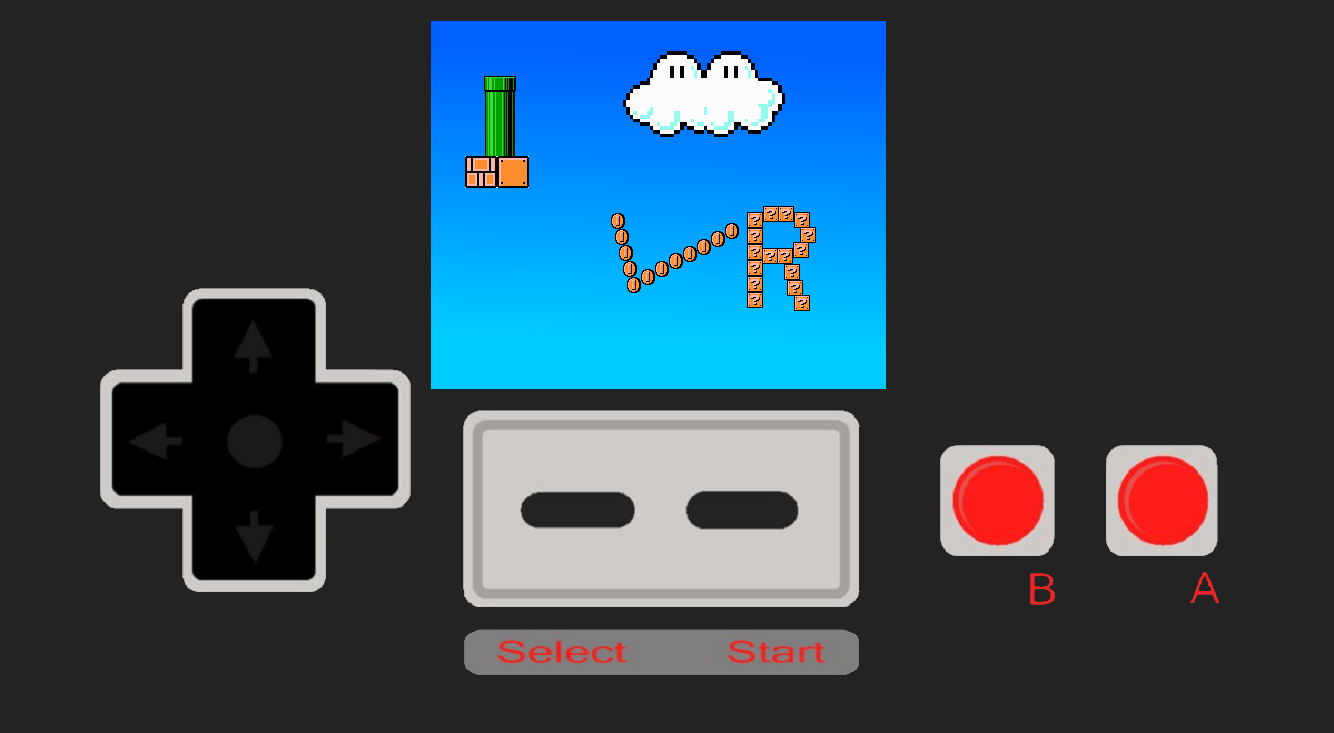
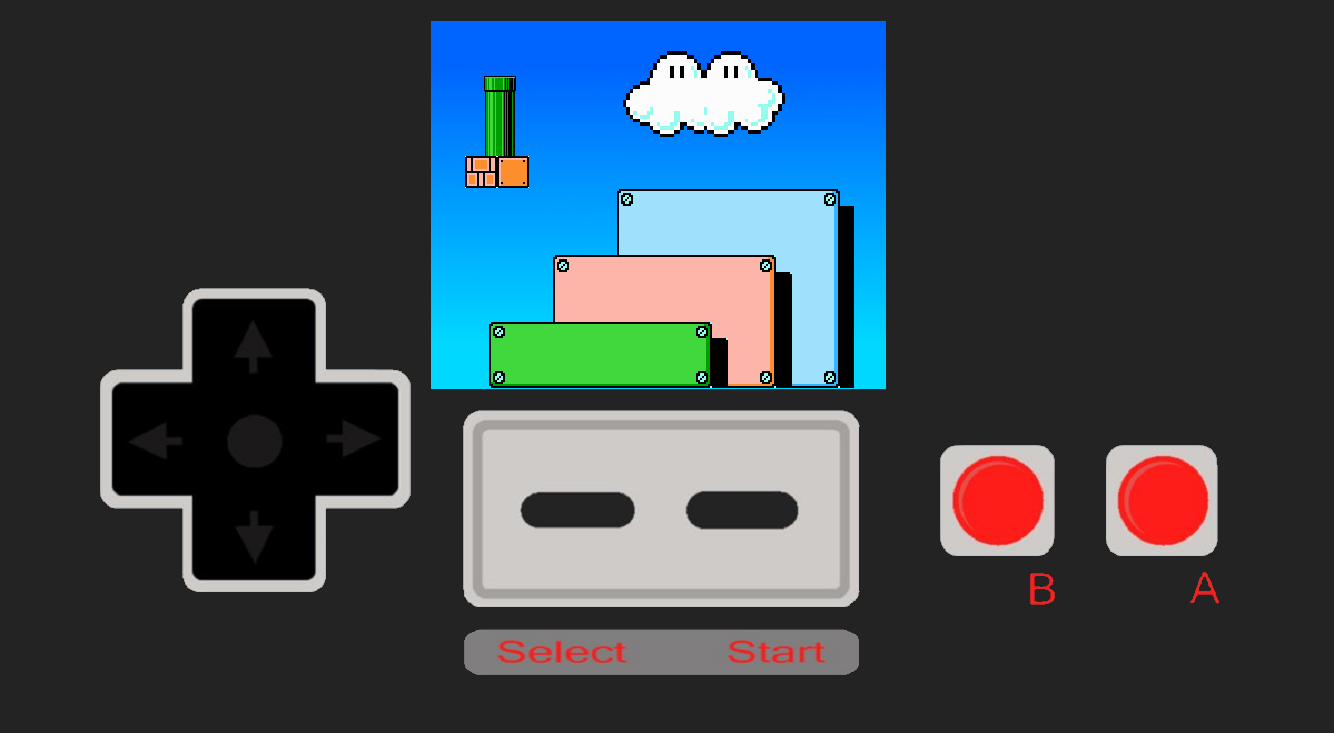
Updated Landscape Mode
Landscape Mode added, new UI, rotation isn't broken anymore (better webapp as well)

Changed region(s): [[0.3688, 0.2401, 0.6454, 0.5402]]

diff --git a/index.html b/index.html
@@ -1,12 +1,15 @@
 <!DOCTYPE html>
 <html>
 <head>
-	<title>virtNES</title>
+	<title>virtualNES</title>
 	<meta name='mobile-web-app-capable' content='yes' />
+	<link rel='favicon' class='icon' href='default.vt/icon.png' />
+	<link rel='shortcut icon' class='icon' href='default.vt/icon.png' />
+	<link rel='icon' class='icon' href='default.vt/icon.png' />
 	<!--  Because Tim Cook has to be a mental fuckhead...  -->
 	<meta name='apple-mobile-web-app-capable' content='yes' />
-	<meta name='apple-mobile-web-app-title' content='virtNES' />
-	<!--End fuckhead issues - Is a merical godfuckingdammit-->
+	<meta name='apple-mobile-web-app-title' content='virtualNES' />
+	<link rel='apple-touch-icon' class='icon' href='default.vt/icon.png' />
 	<style>
 		body{
 			overflow: hidden;
@@ -21,32 +24,63 @@
 	</style>
 </head>
 <body>
-	<!-- Use this not the one I made for it to work on github -->
-	<!-- script src='node_modules/nesnes/dist/nesnes.js'></script -->
+	<!-- Use this when you compile <script src='node_modules/nesnes/dist/nesnes.js'></script> -->
 	<script src='nesnes.js'></script>
 	<script>
+		let size = {
+			getWidth: function(){
+				if(!!window.navigator.standalone == true) {
+					return document.documentElement.clientWidth;
+					// Apparently Apple made window.innerwidth not the same as clientWidth in a webapp... :/
+				} else {
+					return window.innerWidth;
+				}
+			},
+			getHeight: function(){
+				if(!!window.navigator.standalone == true) {
+					return document.documentElement.clientHeight;
+					// Apparently Apple made window.innerwidth not the same as clientWidth in a webapp... :/
+				} else {
+					return window.innerHeight;
+				}
+			}
+		};
+		let gamecanvas;
 		let wd, hd;
+		let orientation = 'horizantal';
 		const canvas = document.createElement('canvas');
 		const context = canvas.getContext('2d');
 		let NES;
 		document.body.appendChild(canvas);
 		canvas.width = 1334;
 		canvas.height = 750;
-		let ctrl_theme, ctrl_map, background;
-		const loadTheme = function(pack = '/default.vt', onload = function(){}){
-			let theme = new XMLHttpRequest;
+		let ctrl_theme, ctrl_map, background, t, theme;
+		const reloadTheme = function(callback = function(){}){
+			try{
+				loadTheme(t, callback);
+			} catch(e) {
+				e.printStackTrace();
+			}
+		}
+		const loadTheme = function(pack = '/default.vt', onload = function(){}, orientation = size.getWidth()>size.getHeight()?'horizantal':'vertical'){
+			t = pack;
+			theme = new XMLHttpRequest;
 			theme.onreadystatechange = function(){
 				if(this.readyState == 4 && this.status == 200) {
 					try {
 						ctrl_theme = JSON.parse(theme.responseText);
 					} catch(e) {
 						let er = ("Error: \nThis theme is either invalid JSON, or unaccessable at the moment. Please try again later. \n\nError info:\n  "+e.message);
-						alert(er);
 						throw new Error(er); return new Error(er);
 					}
 					background = new Image();
-					background.src = pack + '/' + ctrl_theme.controller_textures.horizantal;
+					let i = document.querySelectorAll('link.icon');
+					for(var h in i) {
+						i[h].href = i[h].src = pack + "/" + ctrl_theme.icon || "/default.vt/";
+					}
+					background.src = pack + '/' + ctrl_theme.controller_textures[orientation];
 					background.onload = function(){
+						context.clearRect(0,0,canvas.width,canvas.height);
 						context.drawImage(background, 0, 0, 1334, 750);
 						let mapLoader = new XMLHttpRequest;
 						mapLoader.open("GET", pack + '/' + ctrl_theme.controller_textures.map);
@@ -56,7 +90,6 @@
 									ctrl_map = JSON.parse(mapLoader.responseText);
 								} catch(e){
 									let er = ("Error: \nThis theme's map is either invalid JSON, or unaccessable at the moment. Please try again later. \n\nError info:\n  "+e.message);
-									alert(er);
 									throw new Error(er); return new Error(er);
 								}
 								onload(ctrl_theme, ctrl_map);
@@ -69,25 +102,33 @@
 			theme.open("GET", pack+"/theme.json", true);
 			theme.send(null);
 		};
-		loadTheme('default.vt', function(theme, map){
-			const gamecanvas = document.createElement('canvas');
-			gamecanvas.style.position = 'absolute';
+
+		gamecanvas = document.createElement('canvas');
+		gamecanvas.style.position = 'absolute';
+		function onthemeload(theme, map){
 			window.onresize = function() {
-					wd = window.innerWidth / 1334;
-					hd = window.innerHeight / 750;
-				gamecanvas.style.left = Math.floor(wd * map.horizantal.canvas[0]) + 'px';
-				gamecanvas.style.top = Math.floor(hd * map.horizantal.canvas[1]) + 'px';
+				let temp = orientation.toString();
+				if(size.getWidth() > size.getHeight()) orientation = 'horizantal';
+				else orientation = 'vertical';
+				// if(orientation != temp) {
+					reloadTheme();
+				// }
+				let v = orientation == 'vertical';
+				wd = size.getWidth() / (v?750:1334);
+				hd = size.getHeight() / ((!v)?750:1334);
+				gamecanvas.style.left = Math.floor(wd * map[orientation].canvas[0]) + 'px';
+				gamecanvas.style.top = Math.floor(hd * map[orientation].canvas[1]) + 'px';
 				gamecanvas.width = 256;
 				gamecanvas.height = 240;
-				gamecanvas.style.width = Math.floor(wd * map.horizantal.canvas[2]) + 'px';
-				gamecanvas.style.height = Math.floor(hd * map.horizantal.canvas[3]) + 'px';
+				gamecanvas.style.width = Math.floor(wd * map[orientation].canvas[2]) + 'px';
+				gamecanvas.style.height = Math.floor(hd * map[orientation].canvas[3]) + 'px';
 			};
 			const click = function(x,y,s){
 				x/=wd;
 				y/=hd;
-				for(let button in map.horizantal) {
+				for(let button in map[orientation]) {
 					if(button != 'canvas') {
-						let b = map.horizantal[button];
+						let b = map[orientation][button];
 						if(x > b[0] && x < b[0] + b[2]
 						&& y > b[1] && y < b[1] + b[3]) {
 							console.log(button, b)
@@ -116,11 +157,55 @@
 				e.preventDefault();
 				click(e.pageX, e.pageY, false);
 			};
+			// window.ondeviceorientation = window.onresize;
 			window.onresize();
 			document.body.appendChild(gamecanvas);
 			NES = new NesNes(gamecanvas);
 			NES.load('roms/Super Mario Bros 3 (E).nes', true);
-		});
+		}
+
+		loadTheme('default.vt', onthemeload);
+
+		// const settings = {
+		// 	"Themes": ['./default.vt'],
+		// 	"ROMs": ['roms/Super Mario Bros 3 (E).nes'],
+		// 	"Repos": [{'name': 'iPhoneGuy1101\'s Repo (Default)', 'url': './'}],
+		// 	"Load ROM": function(rom) {
+		// 		NES.load(rom, true);
+		// 	},
+		// 	"Add repo": function(repo) {
+		// 		let r = new XMLHttpRequest;
+		// 		r.open("GET", repo + '/' + 'visualtheme.json');
+		// 		r.onreadystatechange = function(){
+		// 			if(this.readyState == 4 && this.status == 200) {
+		// 				let j = JSON.parse(r.responseText);
+		// 				if(('themes' in j || 'roms' in j)) {
+		// 					if('themes' in j) {
+		// 						for(var i in j.themes) {
+		// 							settings.Themes.push(repo + '/' + j.themes[i])
+		// 						}
+		// 					}
+		// 					if('roms' in j){
+		// 						for(var i in j.roms) {
+		// 							settings.ROMs.push(repo + '/' + j.roms[i]);
+		// 						}
+		// 					}
+		// 					let n = repo;
+		// 					if('name' in j){
+		// 						n = j.name;
+		// 					}
+		// 					settings.Repos.push({name: n, url: repo, roms: j.roms||[], themes: j.themes||[]});
+		// 				} else {
+		// 					return "Invalid repo address, tell the creator to create a valid 'visualtheme.json'";
+		// 				}
+		// 			} else if(this.status == 404) {
+		// 				return "Invalid repo address, tell the creator to create a 'visualtheme.json'";
+		// 			}
+		// 		};
+		// 		r.send(null);
+		// 		settings.Repos.push(repo);
+		// 	}
+		// };
 	</script>
 </body>
 </html>

diff --git a/readme.md b/readme.md
@@ -1,8 +1,6 @@
 # virtualNES (Customizable* NES for mobile phones)
-  
-  Tested with NodeJS 9.3 - but 8.x and later are going to work for sure, older idk
-  
-  
+
+
    I decided since I was playing around with NES games, to make them work on my phone. It is based off of <a href='https://www.github.com/koenkivits/nesnes'>koenkivit's New ECMA Script Nintendo Entertainment System emulator (NESNes for short).</a>
 
    Please make themes and send them to me (a controller png is enough, just draw a cutout for game's `<canvas>`)
@@ -15,7 +13,7 @@ Todo:
  - More?
 
 Look at the 'default.vt' (default visual theme) folder as a template - and to make yours a repo (so it can be added once I add repo functionality) - make a file 'visualtheme.json' in the root of your domain (so if it was example.com/visualtheme.json, the repo would be example.com) that links to your theme, so mine would be: 
-` {"name": "iPG1101's Repo", themes: ['default.vt']}`
+` {"name": "iPhoneGuy1101's Repo", themes: ['default.vt']}`
   
 
 
